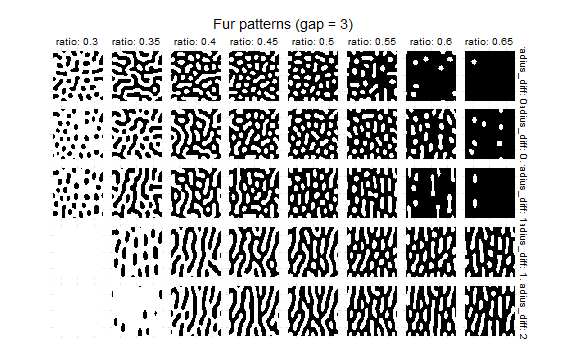
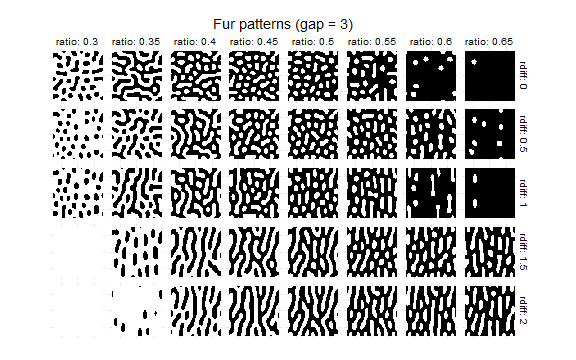
examples

diff --git a/fur.html b/fur.html
@@ -130,7 +130,7 @@ Wilensky, U. (2003). <a href="http://ccl.northwestern.edu/netlogo/models/Fur">Ne
 <p>But considering constraints and model symmetry we can reduce the parameters to:</p>
 <ul>
 <li><code>ratio</code> (the inhibitor concentration parameter)</li>
-<li><code>radius_diff</code> (the difference between x and y radius) and</li>
+<li><code>rdiff</code> (the difference between x and y radius) and</li>
 <li><code>gap</code> (distance between inner and outer ellipse)</li>
 </ul>
 <aside>
@@ -141,15 +141,15 @@ See also <a href="http://classes.yale.edu/fractals/Panorama/Biology/Leopard/Leop
 <pre class="r"><code>#All combinations of ratio x radius_diff 
 param_sets &lt;- expand.grid(
   gap = 3,
-  radius_diff = seq(0, 2, by = 0.5),
+  rdiff = seq(0, 2, by = 0.5),
   ratio = seq(0.30, 0.65, by = 0.05)
 )
 # Add NetLogo variables
 param_sets &lt;- transform(param_sets,
   inner_radius_x = 3,                         
   outer_radius_x = 3 + gap,
-  inner_radius_y = 3 + radius_diff,
-  outer_radius_y = 3 + radius_diff + gap
+  inner_radius_y = 3 + rdiff,
+  outer_radius_y = 3 + rdiff + gap
 )</code></pre>
 <aside>
 <p><code>expand.grid</code> from R base package creates a data frame from all combinations of factors</p>
@@ -165,7 +165,7 @@ param_sets &lt;- transform(param_sets,
   
   mapping = c(
     gap = &quot;&quot;,
-    radius_diff = &quot;&quot;,
+    rdiff = &quot;&quot;,
     inner_radius_x = &quot;inner-radius-x&quot;,
     outer_radius_x = &quot;outer-radius-x&quot;,
     inner_radius_y = &quot;inner-radius-y&quot;,
@@ -183,13 +183,13 @@ param_sets &lt;- transform(param_sets,
 Note that variables <code>gap</code> and <code>radius_diff</code> must be mapped to empty string (since they are not NetLogo model variables).
 </aside>
 <p><lside><span class="glyphicon glyphicon-play-circle" aria-hidden="true" title="Run the experiment" style="color:gray"></span></lside></p>
-<pre class="r"><code>result &lt;- nl_run(experiment, parallel = TRUE, max_cores = 3)</code></pre>
+<pre class="r"><code>result &lt;- nl_run(experiment, parallel = TRUE, max_cores = 3) </code></pre>
 <aside>
 Parallel execution is limited to 3 cores since there will be only <span class="math">\(5 \times 8 = 40\)</span> simulation runs.
 </aside>
 <p><lside><span class="glyphicon glyphicon-stats" aria-hidden="true" title="Show fur patterns" style="color:gray"></span></lside></p>
 <pre class="r"><code>library(ggplot2)
-nl_show_patches(result, x_param = &quot;ratio&quot;, y_param = &quot;radius_diff&quot;) +
+nl_show_patches(result, x_param = &quot;ratio&quot;, y_param = &quot;rdiff&quot;) +
   scale_fill_manual(values = c(&quot;black&quot;,&quot;white&quot;)) +
   labs(y=expression(radius[y] - radius[x]), title = &quot;Fur patterns (gap = 3)&quot;)</code></pre>
 <p>

diff --git a/segregation.html b/segregation.html
@@ -115,7 +115,8 @@ img {
 </div>
 
 
-<p>While using <code>step_measures</code> and <code>run_measures</code> (see <a href="fire.html">Fire experiments</a>) is good enough for aggregate measures, there are occasions when we need to measure values for each agent individually. Example below is using Netlogo Segregation model (Wilensky, 1997) from NetLogo model library.</p>
+<p>While using <code>step_measures</code> and <code>run_measures</code> (see <a href="fire.html">Fire experiments</a>) is good enough for aggregate measures, there are occasions when we need to measure values for each agent individually.</p>
+<p>Example below is using Netlogo Segregation model (Wilensky, 1997) from NetLogo model library to show how to obtain individual agents’ data.</p>
 <aside>
 Wilensky, U. (1997). NetLogo <a href="http://ccl.northwestern.edu/netlogo/models/Segregation">Segregation model</a>. Center for Connected Learning and Computer
 </aside>
@@ -151,7 +152,7 @@ dat$group &lt;- factor(dat$group, labels = c(&quot;A&quot;, &quot;B&quot;))</cod
 ggplot(dat, aes(x = xcor, y = ycor, fill = group)) +
   geom_raster() +
   facet_grid( ~ percent_similar_wanted, labeller = label_both) +
-  scale_fill_manual(values = c(&quot;brown&quot;, &quot;gray&quot; )) +
+  scale_fill_manual(values = c(&quot;cadetblue4&quot;, &quot;gray&quot; )) +
   theme_minimal() </code></pre>
 <p>
 <img src="img/pages-segregPlot-1.png">

diff --git a/dla.html b/dla.html
@@ -150,7 +150,7 @@ Function <code>nl_show_patches</code> uses <code>ggplot2::geom_raster</code> to 
 <p><lside><span class="glyphicon glyphicon-stats" aria-hidden="true" title="Plot results" style="color:gray"></span></lside></p>
 <pre class="r"><code>library(ggplot2)
 nl_show_patches(result, x_param = &quot;wiggle_angle&quot;) +
-  scale_fill_manual(values = c(&quot;#CCDDFF&quot;,&quot;darkred&quot;))</code></pre>
+  scale_fill_manual(values = c(&quot;white&quot;,&quot;darkred&quot;))</code></pre>
 <p>
 <img src="img/pages-dlaPlot-1.png">
 <aside>
